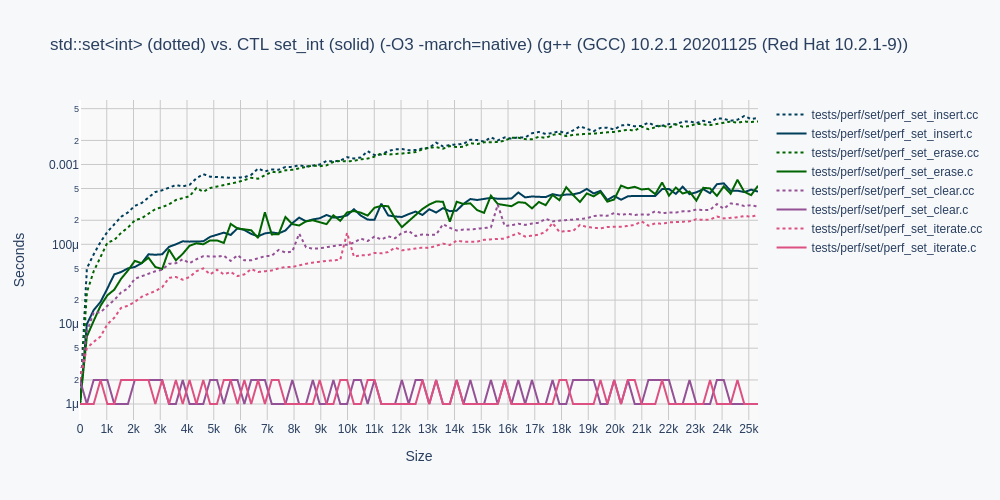
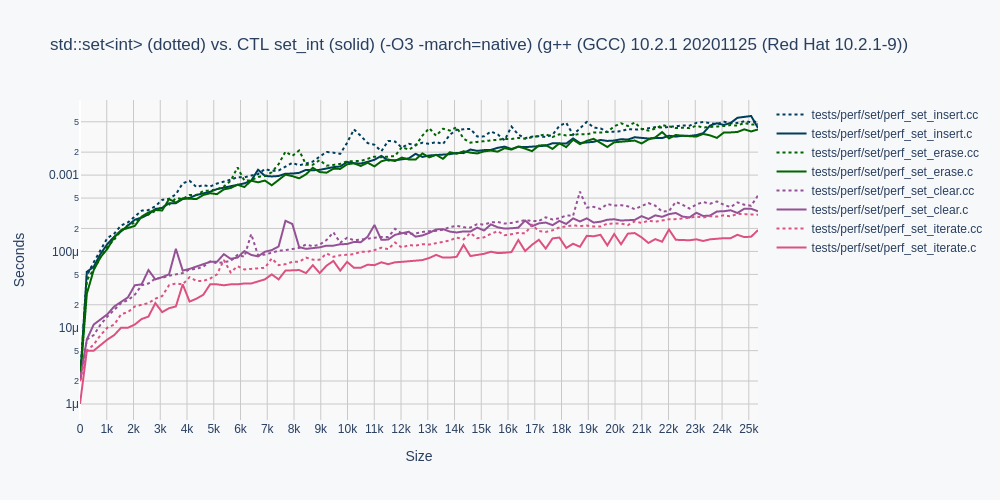
fix set.transform and transform_it
optimize set.insert not to allocate the node, if already exists.
keep the existing node then.

I don't think std::generate can be made usable for set, we dont care
for the insert hint, and we have no operator!= for the STL inserter.
However our CTL generate for set works fine, just a bit expensive.

Changed region(s): [[0.031, 0.21, 0.775, 0.81]]

diff --git a/ctl/set.h b/ctl/set.h
@@ -157,7 +157,8 @@ JOIN(I, advance)(I* iter, long i)
     }
     for(long j = 0; iter->node != NULL && j < i; j++)
         iter->node = JOIN(B, next)(iter->node);
-    iter->ref = &iter->node->value;
+    if (iter->node)
+        iter->ref = &iter->node->value;
     return iter;
 }
 
@@ -467,24 +468,40 @@ JOIN(A, insert_5)(A*, B*);
 static inline B*
 JOIN(A, insert)(A* self, T key)
 {
-    B* insert = JOIN(B, init)(key, 0);
+    B* insert = NULL;
     if(self->root)
     {
         B* node = self->root;
         while(1)
         {
-            int diff = self->compare(&key, &node->value);
-            if(diff == 0) // equal: replace
+            int diff;
+            if (self->equal)
             {
-                JOIN(A, free_node)(self, insert);
-                return node;
+                if (self->equal(&key, &node->value))
+                {
+                    if (self->free)
+                        self->free(&key);
+                    return node;
+                }
+                diff = self->compare(&key, &node->value);
             }
-            else if(diff < 0) // lower
+            else
+            {
+                diff = self->compare(&key, &node->value);
+                if(diff == 0 && !self->compare(&node->value, &key))
+                {   // equal
+                    if (self->free)
+                        self->free(&key);
+                    return node;
+                }
+            }
+            if(diff < 0) // lower
             {
                 if(node->l)
                     node = node->l;
                 else
                 {
+                    insert = JOIN(B, init)(key, 0);
                     node->l = insert;
                     break;
                 }
@@ -495,6 +512,7 @@ JOIN(A, insert)(A* self, T key)
                     node = node->r;
                 else
                 {
+                    insert = JOIN(B, init)(key, 0);
                     node->r = insert;
                     break;
                 }
@@ -503,7 +521,10 @@ JOIN(A, insert)(A* self, T key)
         insert->p = node;
     }
     else
+    {
+        insert = JOIN(B, init)(key, 0);
         self->root = insert;
+    }
     JOIN(A, insert_1)(self, insert);
     self->size++;
 #ifdef USE_INTERNAL_VERIFY
@@ -890,32 +911,32 @@ JOIN(A, symmetric_difference)(A* a, A* b)
 #ifdef DEBUG
 
 static inline bool
-JOIN(A, inserter)(A* self, I* it, T value)
+JOIN(A, inserter)(A* self, B* node, T *value)
 {
-    if(!JOIN(A, _equal)(self, it->ref, &value))
+    if(JOIN(A, find_node)(self, *value))
     {
-        B* next = JOIN(B, next)(it->node);
-        JOIN(A, erase_node)(self, it->node);
-        JOIN(A, insert)(self, value);
-        it->node = next;
-        return true;
+        // already exists: keep
+        if (self->free)
+            self->free(value);
+        return false;
     }
     else
     {
-        if (self->free)
-            self->free(&value);
-        return false;
+        JOIN(A, erase_node)(self, node);
+        JOIN(A, insert)(self, *value);
+        return true;
     }
 }
 
-// specialize, using our inserter
+// specialize, using our inserter.
+// change in place.
 static inline void
 JOIN(A, generate)(A* self, T _gen(void))
 {
     foreach(A, self, i)
     {
         T tmp = _gen();
-        JOIN(A, inserter)(self, &i, tmp);
+        JOIN(A, inserter)(self, i.node, &tmp);
     }
 }
 
@@ -925,7 +946,7 @@ JOIN(A, generate_range)(I* first, I* last, T _gen(void))
     foreach_range(A, i, first, last)
     {
         T tmp = _gen();
-        JOIN(A, inserter)(first->container, &i, tmp);
+        JOIN(A, inserter)(first->container, i.node, &tmp);
     }
 }
 
@@ -935,7 +956,7 @@ JOIN(A, generate_n)(A* self, size_t count, T _gen(void))
     foreach_n(A, self, i, count)
     {
         T tmp = _gen();
-        JOIN(A, inserter)(self, &i, tmp);
+        JOIN(A, inserter)(self, i.node, &tmp);
     }
 }
 
@@ -945,18 +966,27 @@ JOIN(A, generate_n_range)(I* first, size_t count, T _gen(void))
     foreach_n_range(A, first, i, count)
     {
         T tmp = _gen();
-        JOIN(A, inserter)(first->container, &i, tmp);
+        JOIN(A, inserter)(first->container, i.node, &tmp);
     }
 }
 
+#endif // DEBUG
+
+// non-destructive, returns a copy
 static inline A
 JOIN(A, transform)(A* self, T _unop(T*))
 {
-    A other = JOIN(A, copy)(self);
-    foreach(A, &other, i)
+    A other = JOIN(A, init_from)(self);
+    B* node = JOIN(A, first)(self);
+    while (node)
     {
-        T tmp = _unop(i.ref);
-        JOIN(A, inserter)(&other, &i, tmp);
+        T copy = self->copy(&node->value);
+        B* next = JOIN(B, next)(node);
+        T tmp = _unop(&copy);
+        JOIN(A, insert)(&other, tmp);
+        if (self->free)
+            self->free(&copy);
+        node = next;
     }
     return other;
 }
@@ -964,27 +994,37 @@ JOIN(A, transform)(A* self, T _unop(T*))
 static inline A
 JOIN(A, transform_it)(A* self, I* pos, T _binop(T*, T*))
 {
-    A other = JOIN(A, copy)(self);
-    foreach(A, &other, i)
+    A other = JOIN(A, init_from)(self);
+    B* node = JOIN(A, first)(self);
+    while (node)
     {
         if (JOIN(I, done)(pos))
             break;
-        T tmp = _binop(i.ref, pos->ref);
-        JOIN(A, inserter)(&other, &i, tmp);
+        T copy = self->copy(&node->value);
+        B* next = JOIN(B, next)(node);
+        T tmp = _binop(&copy, pos->ref);
+        JOIN(A, insert)(&other, tmp);
+        if (self->free)
+            self->free(&copy);
         JOIN(I, next)(pos);
+        node = next;
     }
     return other;
 }
 
+#ifdef DEBUG
+
 static inline I
 JOIN(A, transform_range)(I* first1, I* last1, I dest, T _unop(T*))
 {
+    A* self = first1->container;
     foreach_range(A, i, first1, last1)
     {
         if (JOIN(I, done)(&dest))
             break;
-        T tmp = _unop(i.ref);
-        JOIN(A, inserter)(dest.container, &i, tmp);
+        T tmp = self->copy(i.ref);
+        tmp = _unop(&tmp);
+        JOIN(A, inserter)(dest.container, i.node, &tmp);
         JOIN(I, next)(&dest);
     }
     return dest;
@@ -993,12 +1033,14 @@ JOIN(A, transform_range)(I* first1, I* last1, I dest, T _unop(T*))
 static inline I
 JOIN(A, transform_it_range)(I* first1, I* last1, I* pos, I dest, T _binop(T*, T*))
 {
+    A* self = first1->container;
     foreach_range(A, i, first1, last1)
     {
         if (JOIN(I, done)(pos) || JOIN(I, done)(&dest))
             break;
-        T tmp = _binop(i.ref, pos->ref);
-        JOIN(A, inserter)(dest.container, &i, tmp);
+        T tmp = self->copy(i.ref);
+        tmp = _binop(&tmp, pos->ref);
+        JOIN(A, inserter)(dest.container, i.node, &tmp);
         JOIN(I, next)(pos);
         JOIN(I, next)(&dest);
     }

diff --git a/tests/func/test_set.cc b/tests/func/test_set.cc
@@ -189,9 +189,11 @@ main(void)
         TEST(FIND_IF_RANGE) \
         TEST(FIND_IF_NOT_RANGE) \
         TEST(ERASE_RANGE) \
+        TEST(TRANSFORM) \
+        TEST(TRANSFORM_IT) \
 
 #define FOREACH_DEBUG(TEST) \
-        TEST(EMPLACE) /* 32*/ \
+        TEST(EMPLACE) /* 33*/ \
         TEST(EXTRACT) \
         TEST(MERGE) \
         TEST(EQUAL_RANGE) \
@@ -204,12 +206,10 @@ main(void)
         TEST(UPPER_BOUND) \
         TEST(LOWER_BOUND_RANGE) \
         TEST(UPPER_BOUND_RANGE) \
-        TEST(GENERATE) /* 45*/ \
+        TEST(GENERATE) /* 46 */ \
         TEST(GENERATE_RANGE) \
-        TEST(TRANSFORM) \
         TEST(GENERATE_N) \
         TEST(GENERATE_N_RANGE) \
-        TEST(TRANSFORM_IT) \
         TEST(TRANSFORM_RANGE) \
 
 #define GENERATE_ENUM(x) TEST_##x,
@@ -681,17 +681,18 @@ main(void)
                     }
                 break;
             }
-#ifdef DEBUG
 #if 0 // need some C++ help here
             case TEST_GENERATE: // 45
             {
                 digi_generate_reset();
                 set_digi_generate(&a, digi_generate);
                 digi_generate_reset();
-                std::generate(b.begin(), b.end(), DIGI_generate);
-                //std::set<DIGI> bb;
-                //std::generate(std::inserter(b, b.begin()), std::inserter(b, b.end()), DIGI_generate);
-                CHECK(a, b);
+                //std::generate(b.begin(), b.end(), DIGIc_generate);
+                std::set<DIGI> bb;
+                // FIXME: need operator!= for insert_operator<set<DIGI>>
+                std::generate(std::inserter(b, b.begin()), std::inserter(bb, bb.begin()),
+                              DIGI_generate);
+                CHECK(a, bb);
                 break;
             }
             case TEST_GENERATE_RANGE:
@@ -707,24 +708,50 @@ main(void)
                 break;
             }
 #endif
-            case TEST_TRANSFORM:
+            case TEST_TRANSFORM: // 47
             {
+                print_set(&a);
                 set_digi aa = set_digi_transform(&a, digi_untrans);
                 std::set<DIGI> bb;
-                std::transform(b.begin(), b.end(), std::inserter(bb, bb.begin()),
+                std::transform(b.begin(), b.end(), std::inserter(bb, bb.end()),
                                DIGI_untrans);
+                print_set(&aa);
+                print_setpp(bb);
                 CHECK(aa, bb);
                 CHECK(a, b);
                 set_digi_free(&aa);
                 break;
             }
+            case TEST_TRANSFORM_IT: // 50
+            {
+                print_set(&a);
+                if (a.size < 2)
+                    break;
+                set_digi_it pos = set_digi_begin(&a);
+                set_digi_it_advance(&pos, 1);
+                set_digi aa = set_digi_transform_it(&a, &pos, digi_bintrans);
+                print_set(&aa);
+                std::set<DIGI> bb;
+                auto it = b.begin();
+                advance(it, 1);
+                auto end = b.end();
+                advance(end, -1);
+                std::transform(b.begin(), end, it, std::inserter(bb, bb.begin()),
+                               DIGI_bintrans);
+                print_setpp(bb);
+                CHECK(aa, bb);
+                CHECK(a, b);
+                set_digi_free(&aa);
+                break;
+            }
+#ifdef DEBUG
             case TEST_GENERATE_N:
             {
                 size_t count = TEST_RAND(20);
                 digi_generate_reset();
                 set_digi_generate_n(&a, count, digi_generate);
                 digi_generate_reset();
-                std::generate_n(std::inserter(b, b.begin()), count, DIGI_generate);
+                std::generate_n(std::inserter(b, b.end()), count, DIGI_generate);
                 CHECK(a, b);
                 break;
             }
@@ -740,20 +767,6 @@ main(void)
                 digi_generate_reset();
                 std::generate_n(std::inserter(b, first_b), count, DIGI_generate);
                 CHECK(a, b);
-                break;
-            }
-            case TEST_TRANSFORM_IT:
-            {
-                set_digi_it pos = set_digi_begin(&a);
-                set_digi_it_advance(&pos, 1);
-                set_digi aa = set_digi_transform_it(&a, &pos, digi_bintrans);
-                std::set<DIGI> bb;
-                auto it = b.begin();
-                advance(it, 1);
-                std::transform(b.begin(), b.end(), it, std::inserter(bb, bb.begin()), DIGI_bintrans);
-                CHECK(aa, bb);
-                CHECK(a, b);
-                set_digi_free(&aa);
                 break;
             }
             case TEST_TRANSFORM_RANGE:

diff --git a/README.md b/README.md
@@ -403,8 +403,8 @@ x  stable and tested
 |`fill_range`                     |    |    |    |    |    |    |    |    |    |    |    |    |
 |`fill_n`                         |    |    | x  |    |    |    |    |    |    |    |    |    |
 |`fill_n_range`                   |    |    |    |    |    |    |    |    |    |    |    |    |
-|`transform`                      | x  | x  | x  | x  | x  | .  |    | .  |    |    |    |    |
-|`transform_it`                   | .  | x  | .  | .  | .  | .  |    |    |    |    |    |    |
+|`transform`                      | x  | x  | x  | x  | x  | x  |    | .  |    |    |    |    |
+|`transform_it`                   | .  | x  | .  | .  | .  | x  |    |    |    |    |    |    |
 |`transform_range`                | .  | .  | .  | .  | .  | .  |    |    |    |    |    |    |
 |`transform_it_range`             |    |    |    |    |    |    |    |    |    |    |    |    |
 |`generate`                       | x  | x  | x  | x  | x  | .  |    | .  |    |    |    |    |

diff --git a/docs/index.md b/docs/index.md
@@ -404,8 +404,8 @@ x  stable and tested
 |`fill_range`                     |    |    |    |    |    |    |    |    |    |    |    |    |
 |`fill_n`                         |    |    | x  |    |    |    |    |    |    |    |    |    |
 |`fill_n_range`                   |    |    |    |    |    |    |    |    |    |    |    |    |
-|`transform`                      | x  | x  | x  | x  | x  | .  |    | .  |    |    |    |    |
-|`transform_it`                   | .  | x  | .  | .  | .  | .  |    |    |    |    |    |    |
+|`transform`                      | x  | x  | x  | x  | x  | x  |    | .  |    |    |    |    |
+|`transform_it`                   | .  | x  | .  | .  | .  | x  |    |    |    |    |    |    |
 |`transform_range`                | .  | .  | .  | .  | .  | .  |    |    |    |    |    |    |
 |`transform_it_range`             |    |    |    |    |    |    |    |    |    |    |    |    |
 |`generate`                       | x  | x  | x  | x  | x  | .  |    | .  |    |    |    |    |
